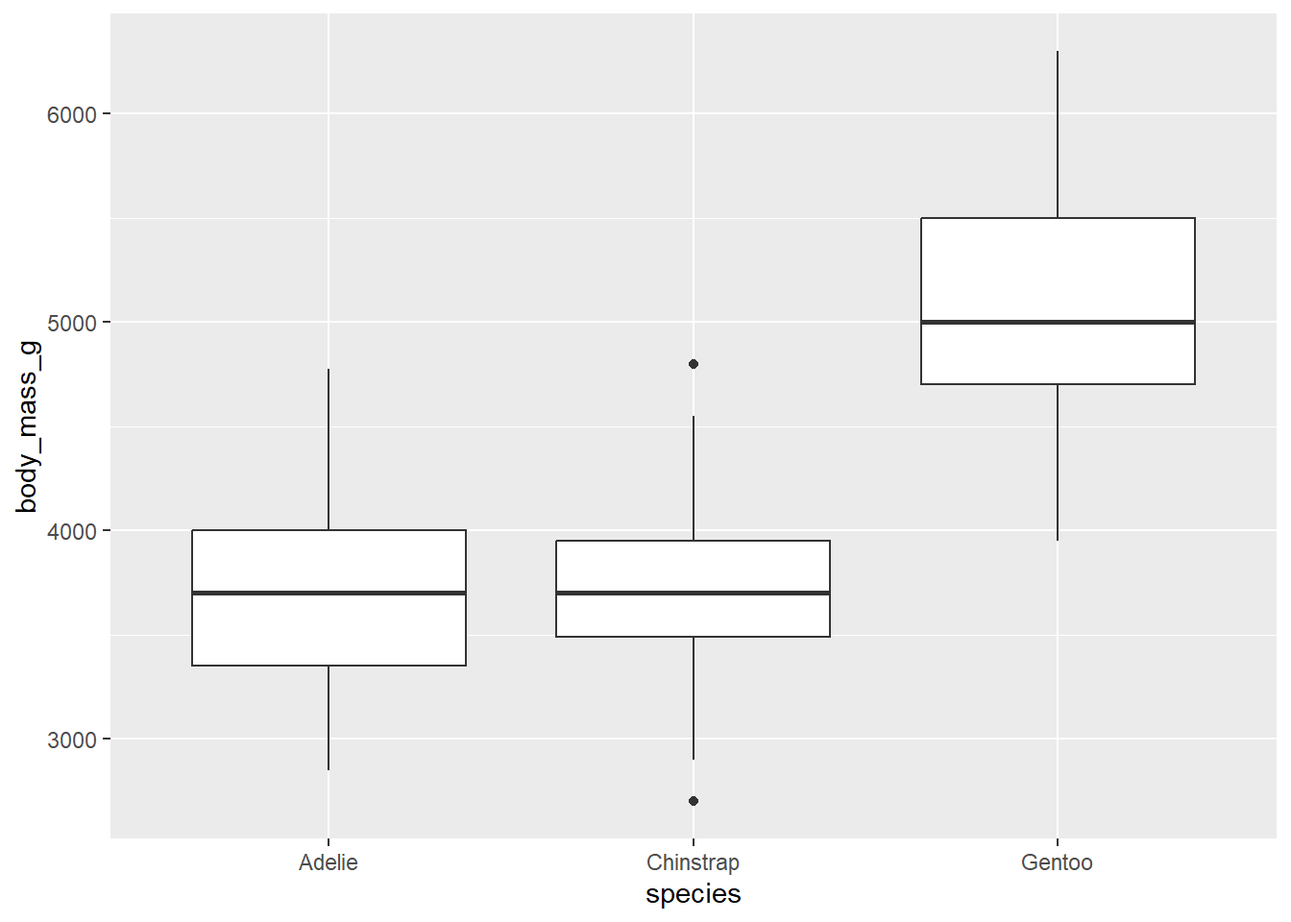
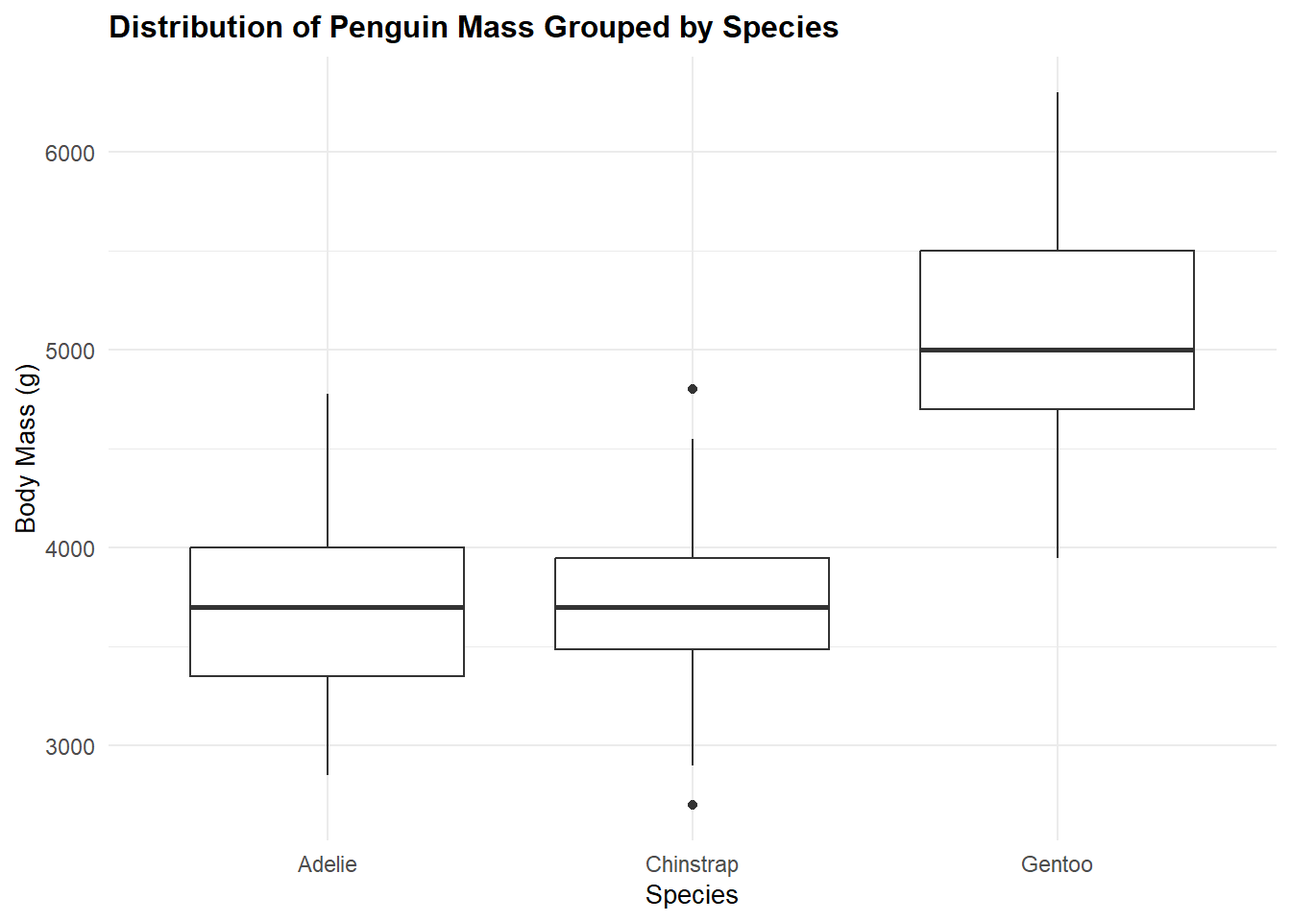
Final Final Commit

diff --git a/docs/content/Classification.html b/docs/content/Classification.html
@@ -265,12 +265,16 @@ code span.wa { color: #60a0b0; font-weight: bold; font-style: italic; } /* Warni
 <summary>Code</summary>
 <div class="sourceCode cell-code" id="cb4"><pre class="sourceCode r code-with-copy"><code class="sourceCode r"><span id="cb4-1"><a href="#cb4-1" aria-hidden="true" tabindex="-1"></a>df <span class="sc">%&gt;%</span></span>
 <span id="cb4-2"><a href="#cb4-2" aria-hidden="true" tabindex="-1"></a>  <span class="fu">ggplot</span>(<span class="fu">aes</span>(<span class="at">x =</span> species, <span class="at">y =</span> body_mass_g)) <span class="sc">+</span></span>
-<span id="cb4-3"><a href="#cb4-3" aria-hidden="true" tabindex="-1"></a>  <span class="fu">geom_boxplot</span>()</span></code><button title="Copy to Clipboard" class="code-copy-button"><i class="bi"></i></button></pre></div>
+<span id="cb4-3"><a href="#cb4-3" aria-hidden="true" tabindex="-1"></a>  <span class="fu">geom_boxplot</span>() <span class="sc">+</span> </span>
+<span id="cb4-4"><a href="#cb4-4" aria-hidden="true" tabindex="-1"></a>  <span class="fu">theme_minimal</span>() <span class="sc">+</span>  </span>
+<span id="cb4-5"><a href="#cb4-5" aria-hidden="true" tabindex="-1"></a>  <span class="fu">labs</span>(<span class="at">title =</span> <span class="st">"Distribution of Penguin Mass Grouped by Species"</span>, <span class="at">x =</span> <span class="st">"Species"</span>, <span class="at">y =</span> <span class="st">"Body Mass (g)"</span>) <span class="sc">+</span>  </span>
+<span id="cb4-6"><a href="#cb4-6" aria-hidden="true" tabindex="-1"></a>  <span class="fu">theme</span>(</span>
+<span id="cb4-7"><a href="#cb4-7" aria-hidden="true" tabindex="-1"></a>    <span class="at">plot.title =</span> <span class="fu">element_text</span>(<span class="at">size =</span> <span class="dv">12</span>, <span class="at">face =</span> <span class="st">"bold"</span>),  </span>
+<span id="cb4-8"><a href="#cb4-8" aria-hidden="true" tabindex="-1"></a>    <span class="at">axis.title =</span> <span class="fu">element_text</span>(<span class="at">size =</span> <span class="dv">10</span>),  </span>
+<span id="cb4-9"><a href="#cb4-9" aria-hidden="true" tabindex="-1"></a>    <span class="at">legend.position =</span> <span class="st">"right"</span>,  </span>
+<span id="cb4-10"><a href="#cb4-10" aria-hidden="true" tabindex="-1"></a>    <span class="at">legend.title =</span> <span class="fu">element_blank</span>()</span>
+<span id="cb4-11"><a href="#cb4-11" aria-hidden="true" tabindex="-1"></a>  )</span></code><button title="Copy to Clipboard" class="code-copy-button"><i class="bi"></i></button></pre></div>
 </details>
-<div class="cell-output cell-output-stderr">
-<pre><code>Warning: Removed 2 rows containing non-finite outside the scale range
-(`stat_boxplot()`).</code></pre>
-</div>
 <div class="cell-output-display">
 <p><img src="Classification_files/figure-html/unnamed-chunk-3-1.png" class="img-fluid" width="672"></p>
 </div>
@@ -278,14 +282,18 @@ code span.wa { color: #60a0b0; font-weight: bold; font-style: italic; } /* Warni
 <div class="cell">
 <details>
 <summary>Code</summary>
-<div class="sourceCode cell-code" id="cb6"><pre class="sourceCode r code-with-copy"><code class="sourceCode r"><span id="cb6-1"><a href="#cb6-1" aria-hidden="true" tabindex="-1"></a>df <span class="sc">%&gt;%</span></span>
-<span id="cb6-2"><a href="#cb6-2" aria-hidden="true" tabindex="-1"></a>  <span class="fu">ggplot</span>(<span class="fu">aes</span>(<span class="at">x =</span> species, <span class="at">y =</span> flipper_length_mm)) <span class="sc">+</span></span>
-<span id="cb6-3"><a href="#cb6-3" aria-hidden="true" tabindex="-1"></a>  <span class="fu">geom_boxplot</span>()</span></code><button title="Copy to Clipboard" class="code-copy-button"><i class="bi"></i></button></pre></div>
+<div class="sourceCode cell-code" id="cb5"><pre class="sourceCode r code-with-copy"><code class="sourceCode r"><span id="cb5-1"><a href="#cb5-1" aria-hidden="true" tabindex="-1"></a>df <span class="sc">%&gt;%</span></span>
+<span id="cb5-2"><a href="#cb5-2" aria-hidden="true" tabindex="-1"></a>  <span class="fu">ggplot</span>(<span class="fu">aes</span>(<span class="at">x =</span> species, <span class="at">y =</span> flipper_length_mm)) <span class="sc">+</span></span>
+<span id="cb5-3"><a href="#cb5-3" aria-hidden="true" tabindex="-1"></a>  <span class="fu">geom_boxplot</span>() <span class="sc">+</span> </span>
+<span id="cb5-4"><a href="#cb5-4" aria-hidden="true" tabindex="-1"></a>  <span class="fu">theme_minimal</span>() <span class="sc">+</span>  </span>
+<span id="cb5-5"><a href="#cb5-5" aria-hidden="true" tabindex="-1"></a>  <span class="fu">labs</span>(<span class="at">title =</span> <span class="st">"Distribution of Flipper Length Grouped by Species"</span>, <span class="at">x =</span> <span class="st">"Species"</span>, <span class="at">y =</span> <span class="st">"Flipper Length (mm)"</span>) <span class="sc">+</span>  </span>
+<span id="cb5-6"><a href="#cb5-6" aria-hidden="true" tabindex="-1"></a>  <span class="fu">theme</span>(</span>
+<span id="cb5-7"><a href="#cb5-7" aria-hidden="true" tabindex="-1"></a>    <span class="at">plot.title =</span> <span class="fu">element_text</span>(<span class="at">size =</span> <span class="dv">12</span>, <span class="at">face =</span> <span class="st">"bold"</span>),  </span>
+<span id="cb5-8"><a href="#cb5-8" aria-hidden="true" tabindex="-1"></a>    <span class="at">axis.title =</span> <span class="fu">element_text</span>(<span class="at">size =</span> <span class="dv">10</span>),  </span>
+<span id="cb5-9"><a href="#cb5-9" aria-hidden="true" tabindex="-1"></a>    <span class="at">legend.position =</span> <span class="st">"right"</span>,  </span>
+<span id="cb5-10"><a href="#cb5-10" aria-hidden="true" tabindex="-1"></a>    <span class="at">legend.title =</span> <span class="fu">element_blank</span>()</span>
+<span id="cb5-11"><a href="#cb5-11" aria-hidden="true" tabindex="-1"></a>  )</span></code><button title="Copy to Clipboard" class="code-copy-button"><i class="bi"></i></button></pre></div>
 </details>
-<div class="cell-output cell-output-stderr">
-<pre><code>Warning: Removed 2 rows containing non-finite outside the scale range
-(`stat_boxplot()`).</code></pre>
-</div>
 <div class="cell-output-display">
 <p><img src="Classification_files/figure-html/unnamed-chunk-4-1.png" class="img-fluid" width="672"></p>
 </div>
@@ -293,14 +301,18 @@ code span.wa { color: #60a0b0; font-weight: bold; font-style: italic; } /* Warni
 <div class="cell">
 <details>
 <summary>Code</summary>
-<div class="sourceCode cell-code" id="cb8"><pre class="sourceCode r code-with-copy"><code class="sourceCode r"><span id="cb8-1"><a href="#cb8-1" aria-hidden="true" tabindex="-1"></a>df <span class="sc">%&gt;%</span></span>
-<span id="cb8-2"><a href="#cb8-2" aria-hidden="true" tabindex="-1"></a>  <span class="fu">ggplot</span>(<span class="fu">aes</span>(<span class="at">x =</span> species, <span class="at">y =</span> bill_length_mm)) <span class="sc">+</span></span>
-<span id="cb8-3"><a href="#cb8-3" aria-hidden="true" tabindex="-1"></a>  <span class="fu">geom_boxplot</span>()</span></code><button title="Copy to Clipboard" class="code-copy-button"><i class="bi"></i></button></pre></div>
+<div class="sourceCode cell-code" id="cb6"><pre class="sourceCode r code-with-copy"><code class="sourceCode r"><span id="cb6-1"><a href="#cb6-1" aria-hidden="true" tabindex="-1"></a>df <span class="sc">%&gt;%</span></span>
+<span id="cb6-2"><a href="#cb6-2" aria-hidden="true" tabindex="-1"></a>  <span class="fu">ggplot</span>(<span class="fu">aes</span>(<span class="at">x =</span> species, <span class="at">y =</span> bill_length_mm)) <span class="sc">+</span></span>
+<span id="cb6-3"><a href="#cb6-3" aria-hidden="true" tabindex="-1"></a>  <span class="fu">geom_boxplot</span>() <span class="sc">+</span> </span>
+<span id="cb6-4"><a href="#cb6-4" aria-hidden="true" tabindex="-1"></a>  <span class="fu">theme_minimal</span>() <span class="sc">+</span>  </span>
+<span id="cb6-5"><a href="#cb6-5" aria-hidden="true" tabindex="-1"></a>  <span class="fu">labs</span>(<span class="at">title =</span> <span class="st">"Distribution of Bill Length Grouped by Species"</span>, <span class="at">x =</span> <span class="st">"Species"</span>, <span class="at">y =</span> <span class="st">"Bill Length (mm)"</span>) <span class="sc">+</span>  </span>
+<span id="cb6-6"><a href="#cb6-6" aria-hidden="true" tabindex="-1"></a>  <span class="fu">theme</span>(</span>
+<span id="cb6-7"><a href="#cb6-7" aria-hidden="true" tabindex="-1"></a>    <span class="at">plot.title =</span> <span class="fu">element_text</span>(<span class="at">size =</span> <span class="dv">12</span>, <span class="at">face =</span> <span class="st">"bold"</span>),  </span>
+<span id="cb6-8"><a href="#cb6-8" aria-hidden="true" tabindex="-1"></a>    <span class="at">axis.title =</span> <span class="fu">element_text</span>(<span class="at">size =</span> <span class="dv">10</span>),  </span>
+<span id="cb6-9"><a href="#cb6-9" aria-hidden="true" tabindex="-1"></a>    <span class="at">legend.position =</span> <span class="st">"right"</span>,  </span>
+<span id="cb6-10"><a href="#cb6-10" aria-hidden="true" tabindex="-1"></a>    <span class="at">legend.title =</span> <span class="fu">element_blank</span>()</span>
+<span id="cb6-11"><a href="#cb6-11" aria-hidden="true" tabindex="-1"></a>  )</span></code><button title="Copy to Clipboard" class="code-copy-button"><i class="bi"></i></button></pre></div>
 </details>
-<div class="cell-output cell-output-stderr">
-<pre><code>Warning: Removed 2 rows containing non-finite outside the scale range
-(`stat_boxplot()`).</code></pre>
-</div>
 <div class="cell-output-display">
 <p><img src="Classification_files/figure-html/unnamed-chunk-5-1.png" class="img-fluid" width="672"></p>
 </div>
@@ -311,13 +323,13 @@ code span.wa { color: #60a0b0; font-weight: bold; font-style: italic; } /* Warni
 <div class="cell">
 <details>
 <summary>Code</summary>
-<div class="sourceCode cell-code" id="cb10"><pre class="sourceCode r code-with-copy"><code class="sourceCode r"><span id="cb10-1"><a href="#cb10-1" aria-hidden="true" tabindex="-1"></a><span class="fu">set.seed</span>(<span class="dv">1026</span>)</span></code><button title="Copy to Clipboard" class="code-copy-button"><i class="bi"></i></button></pre></div>
+<div class="sourceCode cell-code" id="cb7"><pre class="sourceCode r code-with-copy"><code class="sourceCode r"><span id="cb7-1"><a href="#cb7-1" aria-hidden="true" tabindex="-1"></a><span class="fu">set.seed</span>(<span class="dv">1026</span>)</span></code><button title="Copy to Clipboard" class="code-copy-button"><i class="bi"></i></button></pre></div>
 </details>
 </div>
 <div class="cell">
 <details>
 <summary>Code</summary>
-<div class="sourceCode cell-code" id="cb11"><pre class="sourceCode r code-with-copy"><code class="sourceCode r"><span id="cb11-1"><a href="#cb11-1" aria-hidden="true" tabindex="-1"></a>(penguin_split <span class="ot">&lt;-</span> <span class="fu">initial_split</span>(df, <span class="at">prop =</span> <span class="fl">0.8</span>, <span class="at">strata =</span> species))</span></code><button title="Copy to Clipboard" class="code-copy-button"><i class="bi"></i></button></pre></div>
+<div class="sourceCode cell-code" id="cb8"><pre class="sourceCode r code-with-copy"><code class="sourceCode r"><span id="cb8-1"><a href="#cb8-1" aria-hidden="true" tabindex="-1"></a>(penguin_split <span class="ot">&lt;-</span> <span class="fu">initial_split</span>(df, <span class="at">prop =</span> <span class="fl">0.8</span>, <span class="at">strata =</span> species))</span></code><button title="Copy to Clipboard" class="code-copy-button"><i class="bi"></i></button></pre></div>
 </details>
 <div class="cell-output cell-output-stdout">
 <pre><code>&lt;Training/Testing/Total&gt;
@@ -327,8 +339,8 @@ code span.wa { color: #60a0b0; font-weight: bold; font-style: italic; } /* Warni
 <div class="cell">
 <details>
 <summary>Code</summary>
-<div class="sourceCode cell-code" id="cb13"><pre class="sourceCode r code-with-copy"><code class="sourceCode r"><span id="cb13-1"><a href="#cb13-1" aria-hidden="true" tabindex="-1"></a>Penguin_train <span class="ot">&lt;-</span> <span class="fu">training</span>(penguin_split)</span>
-<span id="cb13-2"><a href="#cb13-2" aria-hidden="true" tabindex="-1"></a>Penguin_test <span class="ot">&lt;-</span> <span class="fu">testing</span>(penguin_split)</span></code><button title="Copy to Clipboard" class="code-copy-button"><i class="bi"></i></button></pre></div>
+<div class="sourceCode cell-code" id="cb10"><pre class="sourceCode r code-with-copy"><code class="sourceCode r"><span id="cb10-1"><a href="#cb10-1" aria-hidden="true" tabindex="-1"></a>Penguin_train <span class="ot">&lt;-</span> <span class="fu">training</span>(penguin_split)</span>
+<span id="cb10-2"><a href="#cb10-2" aria-hidden="true" tabindex="-1"></a>Penguin_test <span class="ot">&lt;-</span> <span class="fu">testing</span>(penguin_split)</span></code><button title="Copy to Clipboard" class="code-copy-button"><i class="bi"></i></button></pre></div>
 </details>
 </div>
 </section>
@@ -339,35 +351,30 @@ code span.wa { color: #60a0b0; font-weight: bold; font-style: italic; } /* Warni
 <div class="cell">
 <details>
 <summary>Code</summary>
-<div class="sourceCode cell-code" id="cb14"><pre class="sourceCode r code-with-copy"><code class="sourceCode r"><span id="cb14-1"><a href="#cb14-1" aria-hidden="true" tabindex="-1"></a>lda_spec <span class="ot">&lt;-</span> <span class="fu">discrim_linear</span>() <span class="sc">%&gt;%</span></span>
-<span id="cb14-2"><a href="#cb14-2" aria-hidden="true" tabindex="-1"></a>        <span class="fu">set_mode</span>(<span class="st">"classification"</span>) <span class="sc">%&gt;%</span></span>
-<span id="cb14-3"><a href="#cb14-3" aria-hidden="true" tabindex="-1"></a>        <span class="fu">set_engine</span>(<span class="st">"MASS"</span>)</span></code><button title="Copy to Clipboard" class="code-copy-button"><i class="bi"></i></button></pre></div>
+<div class="sourceCode cell-code" id="cb11"><pre class="sourceCode r code-with-copy"><code class="sourceCode r"><span id="cb11-1"><a href="#cb11-1" aria-hidden="true" tabindex="-1"></a>lda_spec <span class="ot">&lt;-</span> <span class="fu">discrim_linear</span>() <span class="sc">%&gt;%</span></span>
+<span id="cb11-2"><a href="#cb11-2" aria-hidden="true" tabindex="-1"></a>        <span class="fu">set_mode</span>(<span class="st">"classification"</span>) <span class="sc">%&gt;%</span></span>
+<span id="cb11-3"><a href="#cb11-3" aria-hidden="true" tabindex="-1"></a>        <span class="fu">set_engine</span>(<span class="st">"MASS"</span>)</span></code><button title="Copy to Clipboard" class="code-copy-button"><i class="bi"></i></button></pre></div>
 </details>
 </div>
 <div class="cell">
 <details>
 <summary>Code</summary>
-<div class="sourceCode cell-code" id="cb15"><pre class="sourceCode r code-with-copy"><code class="sourceCode r"><span id="cb15-1"><a href="#cb15-1" aria-hidden="true" tabindex="-1"></a>lda_fit1<span class="ot">&lt;-</span> lda_spec <span class="sc">%&gt;%</span></span>
-<span id="cb15-2"><a href="#cb15-2" aria-hidden="true" tabindex="-1"></a>    <span class="fu">fit</span>(species <span class="sc">~</span> bill_length_mm <span class="sc">+</span> body_mass_g <span class="sc">+</span> flipper_length_mm, <span class="at">data =</span> Penguin_train)</span></code><button title="Copy to Clipboard" class="code-copy-button"><i class="bi"></i></button></pre></div>
+<div class="sourceCode cell-code" id="cb12"><pre class="sourceCode r code-with-copy"><code class="sourceCode r"><span id="cb12-1"><a href="#cb12-1" aria-hidden="true" tabindex="-1"></a>lda_fit1<span class="ot">&lt;-</span> lda_spec <span class="sc">%&gt;%</span></span>
+<span id="cb12-2"><a href="#cb12-2" aria-hidden="true" tabindex="-1"></a>    <span class="fu">fit</span>(species <span class="sc">~</span> bill_length_mm <span class="sc">+</span> body_mass_g <span class="sc">+</span> flipper_length_mm, <span class="at">data =</span> Penguin_train)</span></code><button title="Copy to Clipboard" class="code-copy-button"><i class="bi"></i></button></pre></div>
 </details>
 </div>
 <div class="cell">
 <details>
 <summary>Code</summary>
-<div class="sourceCode cell-code" id="cb16"><pre class="sourceCode r code-with-copy"><code class="sourceCode r"><span id="cb16-1"><a href="#cb16-1" aria-hidden="true" tabindex="-1"></a>lda_fit1_preds_test <span class="ot">&lt;-</span> <span class="fu">augment</span>(lda_fit1 , <span class="at">new_data =</span> Penguin_test) <span class="sc">%&gt;%</span></span>
-<span id="cb16-2"><a href="#cb16-2" aria-hidden="true" tabindex="-1"></a>        <span class="fu">select</span>(species, bill_length_mm, flipper_length_mm, body_mass_g, .pred_class) </span></code><button title="Copy to Clipboard" class="code-copy-button"><i class="bi"></i></button></pre></div>
+<div class="sourceCode cell-code" id="cb13"><pre class="sourceCode r code-with-copy"><code class="sourceCode r"><span id="cb13-1"><a href="#cb13-1" aria-hidden="true" tabindex="-1"></a>lda_fit1_preds_test <span class="ot">&lt;-</span> <span class="fu">augment</span>(lda_fit1 , <span class="at">new_data =</span> Penguin_test) <span class="sc">%&gt;%</span></span>
+<span id="cb13-2"><a href="#cb13-2" aria-hidden="true" tabindex="-1"></a>        <span class="fu">select</span>(species, bill_length_mm, flipper_length_mm, body_mass_g, .pred_class) </span></code><button title="Copy to Clipboard" class="code-copy-button"><i class="bi"></i></button></pre></div>
 </details>
-<div class="cell-output cell-output-stderr">
-<pre><code>Warning in FUN(newX[, i], ...): no non-missing arguments to min; returning Inf
-
-Warning in FUN(newX[, i], ...): no non-missing arguments to min; returning Inf</code></pre>
-</div>
 </div>
 <div class="cell">
 <details>
 <summary>Code</summary>
-<div class="sourceCode cell-code" id="cb18"><pre class="sourceCode r code-with-copy"><code class="sourceCode r"><span id="cb18-1"><a href="#cb18-1" aria-hidden="true" tabindex="-1"></a>lda_fit1_preds_test <span class="sc">%&gt;%</span></span>
-<span id="cb18-2"><a href="#cb18-2" aria-hidden="true" tabindex="-1"></a>  <span class="fu">conf_mat</span>(<span class="at">truth =</span> species, <span class="at">estimate =</span> .pred_class)</span></code><button title="Copy to Clipboard" class="code-copy-button"><i class="bi"></i></button></pre></div>
+<div class="sourceCode cell-code" id="cb14"><pre class="sourceCode r code-with-copy"><code class="sourceCode r"><span id="cb14-1"><a href="#cb14-1" aria-hidden="true" tabindex="-1"></a>lda_fit1_preds_test <span class="sc">%&gt;%</span></span>
+<span id="cb14-2"><a href="#cb14-2" aria-hidden="true" tabindex="-1"></a>  <span class="fu">conf_mat</span>(<span class="at">truth =</span> species, <span class="at">estimate =</span> .pred_class)</span></code><button title="Copy to Clipboard" class="code-copy-button"><i class="bi"></i></button></pre></div>
 </details>
 <div class="cell-output cell-output-stdout">
 <pre><code>           Truth
@@ -383,35 +390,30 @@ Prediction  Adelie Chinstrap Gentoo
 <div class="cell">
 <details>
 <summary>Code</summary>
-<div class="sourceCode cell-code" id="cb20"><pre class="sourceCode r code-with-copy"><code class="sourceCode r"><span id="cb20-1"><a href="#cb20-1" aria-hidden="true" tabindex="-1"></a>qda_spec <span class="ot">&lt;-</span> <span class="fu">discrim_quad</span>() <span class="sc">%&gt;%</span></span>
-<span id="cb20-2"><a href="#cb20-2" aria-hidden="true" tabindex="-1"></a>        <span class="fu">set_mode</span>(<span class="st">"classification"</span>) <span class="sc">%&gt;%</span></span>
-<span id="cb20-3"><a href="#cb20-3" aria-hidden="true" tabindex="-1"></a>        <span class="fu">set_engine</span>(<span class="st">"MASS"</span>)</span></code><button title="Copy to Clipboard" class="code-copy-button"><i class="bi"></i></button></pre></div>
+<div class="sourceCode cell-code" id="cb16"><pre class="sourceCode r code-with-copy"><code class="sourceCode r"><span id="cb16-1"><a href="#cb16-1" aria-hidden="true" tabindex="-1"></a>qda_spec <span class="ot">&lt;-</span> <span class="fu">discrim_quad</span>() <span class="sc">%&gt;%</span></span>
+<span id="cb16-2"><a href="#cb16-2" aria-hidden="true" tabindex="-1"></a>        <span class="fu">set_mode</span>(<span class="st">"classification"</span>) <span class="sc">%&gt;%</span></span>
+<span id="cb16-3"><a href="#cb16-3" aria-hidden="true" tabindex="-1"></a>        <span class="fu">set_engine</span>(<span class="st">"MASS"</span>)</span></code><button title="Copy to Clipboard" class="code-copy-button"><i class="bi"></i></button></pre></div>
 </details>
 </div>
 <div class="cell">
 <details>
 <summary>Code</summary>
-<div class="sourceCode cell-code" id="cb21"><pre class="sourceCode r code-with-copy"><code class="sourceCode r"><span id="cb21-1"><a href="#cb21-1" aria-hidden="true" tabindex="-1"></a>qda_fit1<span class="ot">&lt;-</span> qda_spec <span class="sc">%&gt;%</span></span>
-<span id="cb21-2"><a href="#cb21-2" aria-hidden="true" tabindex="-1"></a>    <span class="fu">fit</span>(species <span class="sc">~</span> bill_length_mm <span class="sc">+</span> body_mass_g <span class="sc">+</span> flipper_length_mm, <span class="at">data =</span> Penguin_train)</span></code><button title="Copy to Clipboard" class="code-copy-button"><i class="bi"></i></button></pre></div>
+<div class="sourceCode cell-code" id="cb17"><pre class="sourceCode r code-with-copy"><code class="sourceCode r"><span id="cb17-1"><a href="#cb17-1" aria-hidden="true" tabindex="-1"></a>qda_fit1<span class="ot">&lt;-</span> qda_spec <span class="sc">%&gt;%</span></span>
+<span id="cb17-2"><a href="#cb17-2" aria-hidden="true" tabindex="-1"></a>    <span class="fu">fit</span>(species <span class="sc">~</span> bill_length_mm <span class="sc">+</span> body_mass_g <span class="sc">+</span> flipper_length_mm, <span class="at">data =</span> Penguin_train)</span></code><button title="Copy to Clipboard" class="code-copy-button"><i class="bi"></i></button></pre></div>
 </details>
 </div>
 <div class="cell">
 <details>
 <summary>Code</summary>
-<div class="sourceCode cell-code" id="cb22"><pre class="sourceCode r code-with-copy"><code class="sourceCode r"><span id="cb22-1"><a href="#cb22-1" aria-hidden="true" tabindex="-1"></a>qda_fit1_preds_test <span class="ot">&lt;-</span> <span class="fu">augment</span>(qda_fit1 , <span class="at">new_data =</span> Penguin_test) <span class="sc">%&gt;%</span></span>
-<span id="cb22-2"><a href="#cb22-2" aria-hidden="true" tabindex="-1"></a>        <span class="fu">select</span>(species, bill_length_mm, flipper_length_mm, body_mass_g, .pred_class) </span></code><button title="Copy to Clipboard" class="code-copy-button"><i class="bi"></i></button></pre></div>
+<div class="sourceCode cell-code" id="cb18"><pre class="sourceCode r code-with-copy"><code class="sourceCode r"><span id="cb18-1"><a href="#cb18-1" aria-hidden="true" tabindex="-1"></a>qda_fit1_preds_test <span class="ot">&lt;-</span> <span class="fu">augment</span>(qda_fit1 , <span class="at">new_data =</span> Penguin_test) <span class="sc">%&gt;%</span></span>
+<span id="cb18-2"><a href="#cb18-2" aria-hidden="true" tabindex="-1"></a>        <span class="fu">select</span>(species, bill_length_mm, flipper_length_mm, body_mass_g, .pred_class) </span></code><button title="Copy to Clipboard" class="code-copy-button"><i class="bi"></i></button></pre></div>
 </details>
-<div class="cell-output cell-output-stderr">
-<pre><code>Warning in FUN(newX[, i], ...): no non-missing arguments to min; returning Inf
-
-Warning in FUN(newX[, i], ...): no non-missing arguments to min; returning Inf</code></pre>
-</div>
 </div>
 <div class="cell">
 <details>
 <summary>Code</summary>
-<div class="sourceCode cell-code" id="cb24"><pre class="sourceCode r code-with-copy"><code class="sourceCode r"><span id="cb24-1"><a href="#cb24-1" aria-hidden="true" tabindex="-1"></a>qda_fit1_preds_test <span class="sc">%&gt;%</span></span>
-<span id="cb24-2"><a href="#cb24-2" aria-hidden="true" tabindex="-1"></a>  <span class="fu">conf_mat</span>(<span class="at">truth =</span> species, <span class="at">estimate =</span> .pred_class)</span></code><button title="Copy to Clipboard" class="code-copy-button"><i class="bi"></i></button></pre></div>
+<div class="sourceCode cell-code" id="cb19"><pre class="sourceCode r code-with-copy"><code class="sourceCode r"><span id="cb19-1"><a href="#cb19-1" aria-hidden="true" tabindex="-1"></a>qda_fit1_preds_test <span class="sc">%&gt;%</span></span>
+<span id="cb19-2"><a href="#cb19-2" aria-hidden="true" tabindex="-1"></a>  <span class="fu">conf_mat</span>(<span class="at">truth =</span> species, <span class="at">estimate =</span> .pred_class)</span></code><button title="Copy to Clipboard" class="code-copy-button"><i class="bi"></i></button></pre></div>
 </details>
 <div class="cell-output cell-output-stdout">
 <pre><code>           Truth
@@ -427,31 +429,31 @@ Prediction  Adelie Chinstrap Gentoo
 <div class="cell">
 <details>
 <summary>Code</summary>
-<div class="sourceCode cell-code" id="cb26"><pre class="sourceCode r code-with-copy"><code class="sourceCode r"><span id="cb26-1"><a href="#cb26-1" aria-hidden="true" tabindex="-1"></a>nb_spec <span class="ot">&lt;-</span> <span class="fu">naive_Bayes</span>() <span class="sc">%&gt;%</span> </span>
-<span id="cb26-2"><a href="#cb26-2" aria-hidden="true" tabindex="-1"></a>  <span class="fu">set_mode</span>(<span class="st">"classification"</span>) <span class="sc">%&gt;%</span> </span>
-<span id="cb26-3"><a href="#cb26-3" aria-hidden="true" tabindex="-1"></a>  <span class="fu">set_engine</span>(<span class="st">"klaR"</span>) <span class="sc">%&gt;%</span> </span>
-<span id="cb26-4"><a href="#cb26-4" aria-hidden="true" tabindex="-1"></a>  <span class="fu">set_args</span>(<span class="at">usekernel =</span> <span class="cn">FALSE</span>)</span></code><button title="Copy to Clipboard" class="code-copy-button"><i class="bi"></i></button></pre></div>
+<div class="sourceCode cell-code" id="cb21"><pre class="sourceCode r code-with-copy"><code class="sourceCode r"><span id="cb21-1"><a href="#cb21-1" aria-hidden="true" tabindex="-1"></a>nb_spec <span class="ot">&lt;-</span> <span class="fu">naive_Bayes</span>() <span class="sc">%&gt;%</span> </span>
+<span id="cb21-2"><a href="#cb21-2" aria-hidden="true" tabindex="-1"></a>  <span class="fu">set_mode</span>(<span class="st">"classification"</span>) <span class="sc">%&gt;%</span> </span>
+<span id="cb21-3"><a href="#cb21-3" aria-hidden="true" tabindex="-1"></a>  <span class="fu">set_engine</span>(<span class="st">"klaR"</span>) <span class="sc">%&gt;%</span> </span>
+<span id="cb21-4"><a href="#cb21-4" aria-hidden="true" tabindex="-1"></a>  <span class="fu">set_args</span>(<span class="at">usekernel =</span> <span class="cn">FALSE</span>)</span></code><button title="Copy to Clipboard" class="code-copy-button"><i class="bi"></i></button></pre></div>
 </details>
 </div>
 <div class="cell">
 <details>
 <summary>Code</summary>
-<div class="sourceCode cell-code" id="cb27"><pre class="sourceCode r code-with-copy"><code class="sourceCode r"><span id="cb27-1"><a href="#cb27-1" aria-hidden="true" tabindex="-1"></a>nb_fit1<span class="ot">&lt;-</span> nb_spec <span class="sc">%&gt;%</span></span>
-<span id="cb27-2"><a href="#cb27-2" aria-hidden="true" tabindex="-1"></a>  <span class="fu">fit</span>(species <span class="sc">~</span> bill_length_mm <span class="sc">+</span> body_mass_g <span class="sc">+</span> flipper_length_mm, <span class="at">data =</span> Penguin_train)</span></code><button title="Copy to Clipboard" class="code-copy-button"><i class="bi"></i></button></pre></div>
+<div class="sourceCode cell-code" id="cb22"><pre class="sourceCode r code-with-copy"><code class="sourceCode r"><span id="cb22-1"><a href="#cb22-1" aria-hidden="true" tabindex="-1"></a>nb_fit1<span class="ot">&lt;-</span> nb_spec <span class="sc">%&gt;%</span></span>
+<span id="cb22-2"><a href="#cb22-2" aria-hidden="true" tabindex="-1"></a>  <span class="fu">fit</span>(species <span class="sc">~</span> bill_length_mm <span class="sc">+</span> body_mass_g <span class="sc">+</span> flipper_length_mm, <span class="at">data =</span> Penguin_train)</span></code><button title="Copy to Clipboard" class="code-copy-button"><i class="bi"></i></button></pre></div>
 </details>
 </div>
 <div class="cell">
 <details>
 <summary>Code</summary>
-<div class="sourceCode cell-code" id="cb28"><pre class="sourceCode r code-with-copy"><code class="sourceCode r"><span id="cb28-1"><a href="#cb28-1" aria-hidden="true" tabindex="-1"></a>nb_fit1_preds_test <span class="ot">&lt;-</span> <span class="fu">augment</span>(nb_fit1 , <span class="at">new_data =</span> Penguin_test) <span class="sc">%&gt;%</span></span>
-<span id="cb28-2"><a href="#cb28-2" aria-hidden="true" tabindex="-1"></a>        <span class="fu">select</span>(species, bill_length_mm, flipper_length_mm, body_mass_g, .pred_class) </span></code><button title="Copy to Clipboard" class="code-copy-button"><i class="bi"></i></button></pre></div>
+<div class="sourceCode cell-code" id="cb23"><pre class="sourceCode r code-with-copy"><code class="sourceCode r"><span id="cb23-1"><a href="#cb23-1" aria-hidden="true" tabindex="-1"></a>nb_fit1_preds_test <span class="ot">&lt;-</span> <span class="fu">augment</span>(nb_fit1 , <span class="at">new_data =</span> Penguin_test) <span class="sc">%&gt;%</span></span>
+<span id="cb23-2"><a href="#cb23-2" aria-hidden="true" tabindex="-1"></a>        <span class="fu">select</span>(species, bill_length_mm, flipper_length_mm, body_mass_g, .pred_class) </span></code><button title="Copy to Clipboard" class="code-copy-button"><i class="bi"></i></button></pre></div>
 </details>
 </div>
 <div class="cell">
 <details>
 <summary>Code</summary>
-<div class="sourceCode cell-code" id="cb29"><pre class="sourceCode r code-with-copy"><code class="sourceCode r"><span id="cb29-1"><a href="#cb29-1" aria-hidden="true" tabindex="-1"></a>nb_fit1_preds_test <span class="sc">%&gt;%</span></span>
-<span id="cb29-2"><a href="#cb29-2" aria-hidden="true" tabindex="-1"></a>  <span class="fu">conf_mat</span>(<span class="at">truth =</span> species, <span class="at">estimate =</span> .pred_class)</span></code><button title="Copy to Clipboard" class="code-copy-button"><i class="bi"></i></button></pre></div>
+<div class="sourceCode cell-code" id="cb24"><pre class="sourceCode r code-with-copy"><code class="sourceCode r"><span id="cb24-1"><a href="#cb24-1" aria-hidden="true" tabindex="-1"></a>(conf_matrix <span class="ot">&lt;-</span> nb_fit1_preds_test <span class="sc">%&gt;%</span></span>
+<span id="cb24-2"><a href="#cb24-2" aria-hidden="true" tabindex="-1"></a>  <span class="fu">conf_mat</span>(<span class="at">truth =</span> species, <span class="at">estimate =</span> .pred_class))</span></code><button title="Copy to Clipboard" class="code-copy-button"><i class="bi"></i></button></pre></div>
 </details>
 <div class="cell-output cell-output-stdout">
 <pre><code>           Truth
@@ -465,7 +467,7 @@ Prediction  Adelie Chinstrap Gentoo
 </section>
 <section id="results" class="level2">
 <h2 class="anchored" data-anchor-id="results"><em>Results</em></h2>
-<p>While all of the models provided similar results, the best model at evaluating the test data turned out to be the LDA model.</p>
+<p>While all of the models provided similar results, the best model at evaluating the test data turned out to be the QDA model.</p>
 
 
 </section>

diff --git a/docs/content/model.html b/docs/content/model.html
@@ -346,7 +346,7 @@ Coefficients [  32.53688677 -298.76553447 1094.86739145  547.36692408]</code></p
  with vetiver.model_card()
 Writing pin:
 Name: 'penguin_model'
-Version: 20240425T175923Z-565d5</code></pre>
+Version: 20240425T181259Z-565d5</code></pre>
 </div>
 </div>
 </section>
